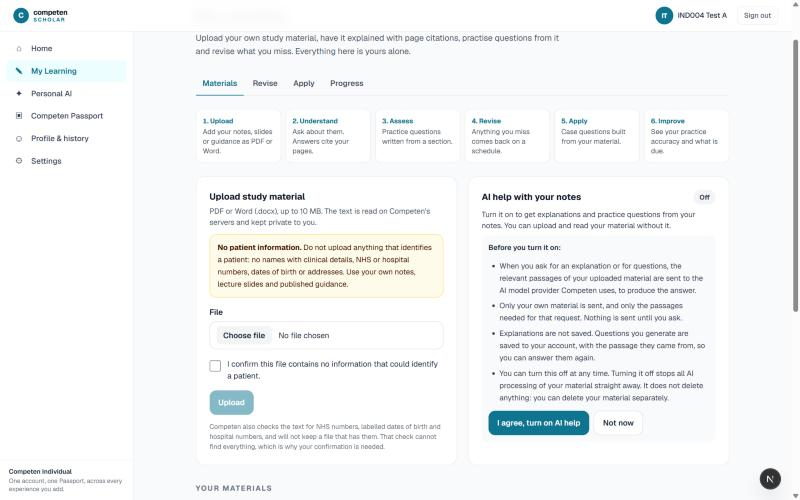
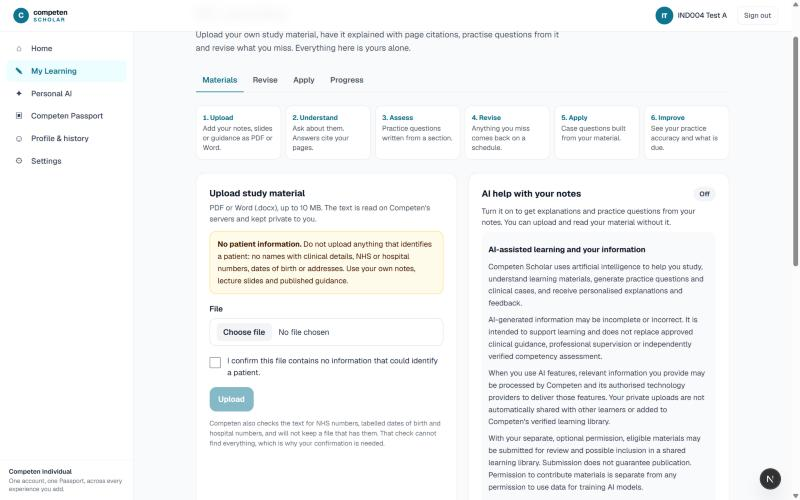
feat(scholar): owner-approved AI consent v2; final acceptance verification and release preparation
Consent (owner GO, 2026-10-23):
- CONSENT_NOTICE is the owner-approved wording, verbatim, as notice v2; the version is
  stored with each grant and confirmed on staging.
- The agreement control is a checkbox labelled with the Consent sentence, then its own
  'Turn on AI help' click. Still off by default with the notice in view, and withdrawal is
  one click.
- The Privacy Notice and Terms links come from the Individual legal configuration: version
  shown, URL only when configured, nothing invented.
- Contribution and training permissions stay separate by not existing. scholar-learning-harness
  S1-S4 pin it: no code shares, submits or publishes material or mentions training; the
  only consent feature is ai_processing_uploads, in code and schema; v2 is pinned; the
  agreement is gated. Planted P14 goes red.

Final verification (owner acceptance APPROVED):
- New SM-2 fixture tests: Good every time gives 1/6/15/38/95 days, long interval on review
  5; Easy/Okay set the ease; a miss restarts.
- vitest 587/587, scholar-learning 63/63, foundation 44/44.
- Staging acceptance 43/43, with notice v2 recorded.
- Screenshots: r02 (the v2 notice) and r14 (the mobile statement with legal links) added.

Build record section 10:
- verification items 1-6 with evidence;
- the consent consistency check (7 items, report only);
- residual risks: question-quality limits, the blind check being same-model rather than
[…]

diff --git a/src/app/individual/(app)/[experience]/(scholar)/study/_components/client.tsx b/src/app/individual/(app)/[experience]/(scholar)/study/_components/client.tsx
@@ -43,7 +43,12 @@ export function AiBadge() {
 
 // ── CONSENT ────────────────────────────────────────────────────────────────────────────────────────
 
-export function ConsentPanel({ granted, grantedAt, revokedAt }: { granted: boolean; grantedAt: string | null; revokedAt: string | null }) {
+/** A legal document the notice points to, from the Individual legal configuration (never an invented URL). */
+export type LegalLink = { title: string; version: string; url: string | null };
+
+export function ConsentPanel({ granted, grantedAt, revokedAt, legal }: {
+  granted: boolean; grantedAt: string | null; revokedAt: string | null; legal: LegalLink[];
+}) {
   const router = useRouter();
   const [busy, setBusy] = useState(false);
   const [error, setError] = useState("");
@@ -54,14 +59,28 @@ export function ConsentPanel({ granted, grantedAt, revokedAt }: { granted: boole
     if (!r.ok) { setError(r.json.error ?? "Your choice could not be saved."); return; }
     router.refresh();
   }
-  // Owner review P1.7: simpler, not weaker. The full notice is still on screen at the moment of agreeing,
-  // the agreement is still its own click, and turning it off is always one click away.
+  // The owner-approved notice (CONSENT_NOTICE, version stored with the grant). Still off by default, still
+  // its own click with the notice in view, and withdrawal is one click.
   const [reviewing, setReviewing] = useState(false);
+  const [agreed, setAgreed] = useState(false);
   const date = (iso: string) => new Date(iso).toLocaleDateString("en-GB", { day: "numeric", month: "short", year: "numeric" });
   const notice = (
-    <ul className="mt-3 list-disc space-y-1.5 pl-5 text-[13.5px] leading-relaxed text-gray-700">
-      {CONSENT_NOTICE.map(l => <li key={l}>{l}</li>)}
-    </ul>
+    <div className="mt-2 space-y-2 text-[13.5px] leading-relaxed text-gray-700">
+      <h3 className="text-[14px] font-bold text-gray-900">{CONSENT_NOTICE.heading}</h3>
+      {CONSENT_NOTICE.paragraphs.map(p => <p key={p}>{p}</p>)}
+      <p>{CONSENT_NOTICE.review}</p>
+      <ul className="space-y-1 text-[13px]">
+        {legal.length === 0 && <li className="text-gray-600">The Privacy Notice and Terms of Service are not published for this service yet.</li>}
+        {legal.map(d => (
+          <li key={`${d.title}-${d.version}`}>
+            {d.url
+              ? <a href={d.url} target="_blank" rel="noopener noreferrer" className={`font-semibold underline underline-offset-2 ${focusRing}`} style={{ color: accent }}>{d.title}</a>
+              : <span className="font-semibold text-gray-800">{d.title}</span>}
+            <span className="text-gray-500"> · version {d.version}{d.url ? "" : " (no published link yet)"}</span>
+          </li>
+        ))}
+      </ul>
+    </div>
   );
   return (
     <section aria-labelledby="consent-h" className="rounded-2xl border border-gray-200 bg-white p-5 sm:p-6">
@@ -74,11 +93,12 @@ export function ConsentPanel({ granted, grantedAt, revokedAt }: { granted: boole
       {granted ? (
         <>
           <p className="mt-2 text-[13.5px] text-gray-700">
-            Explanations and practice questions are on{grantedAt ? ` (since ${date(grantedAt)})` : ""}. Only the passages you ask about are sent to Competen&apos;s AI provider, and only when you ask.
+            Explanations and practice questions are on{grantedAt ? ` (since ${date(grantedAt)})` : ""}. Your private uploads are not shared with other learners.
           </p>
           <details className="mt-2 text-[13px] text-gray-600">
-            <summary className={`cursor-pointer font-semibold text-gray-700 ${focusRing}`}>What is sent, and what is kept?</summary>
+            <summary className={`cursor-pointer font-semibold text-gray-700 ${focusRing}`}>What you agreed to</summary>
             {notice}
+            <p className="mt-2 text-[13px] italic text-gray-700">“{CONSENT_NOTICE.statement}”</p>
           </details>
           <button type="button" className={`${ghost} mt-3`} disabled={busy} onClick={() => set(false)}>{busy ? "Saving…" : "Turn off"}</button>
         </>
@@ -91,11 +111,14 @@ export function ConsentPanel({ granted, grantedAt, revokedAt }: { granted: boole
             <button type="button" className={`${btn} mt-3`} style={{ background: accent }} onClick={() => setReviewing(true)}>Review and turn on</button>
           ) : (
             <div className="mt-2 rounded-xl bg-gray-50 p-3">
-              <p className="text-[13px] font-semibold text-gray-800">Before you turn it on:</p>
               {notice}
+              <label className="mt-3 flex items-start gap-3 text-[13.5px] font-semibold text-gray-900">
+                <input type="checkbox" checked={agreed} onChange={e => setAgreed(e.target.checked)} className="mt-0.5 h-5 w-5 shrink-0" />
+                <span>{CONSENT_NOTICE.statement}</span>
+              </label>
               <div className="mt-3 flex flex-wrap gap-2">
-                <button type="button" className={btn} style={{ background: accent }} disabled={busy} onClick={() => set(true)}>{busy ? "Saving…" : "I agree, turn on AI help"}</button>
-                <button type="button" className={ghost} disabled={busy} onClick={() => setReviewing(false)}>Not now</button>
+                <button type="button" className={btn} style={{ background: accent }} disabled={busy || !agreed} onClick={() => set(true)}>{busy ? "Saving…" : "Turn on AI help"}</button>
+                <button type="button" className={ghost} disabled={busy} onClick={() => { setReviewing(false); setAgreed(false); }}>Not now</button>
               </div>
             </div>
           )}

diff --git a/scripts/scholar-learning-harness.ts b/scripts/scholar-learning-harness.ts
@@ -28,7 +28,7 @@
  */
 import { readFileSync, readdirSync, existsSync, statSync } from "node:fs";
 import { join } from "node:path";
-import { ALLOWED_MIME, MAX_UPLOAD_BYTES, BUCKET, AI_LABEL, SELF_DIRECTED_LABEL } from "../src/lib/individual/scholar/config";
+import { ALLOWED_MIME, MAX_UPLOAD_BYTES, BUCKET, AI_LABEL, SELF_DIRECTED_LABEL, CONSENT_FEATURE, CONSENT_NOTICE, CONSENT_NOTICE_VERSION } from "../src/lib/individual/scholar/config";
 import { EXPERIENCES } from "../src/lib/individual/experiences";
 
 let pass = 0; const failures: string[] = [];
@@ -167,6 +167,16 @@ const sourceNoticeCount = (src: Src) => [...(src.get(CLIENT) ?? "").matchAll(/<S
 const masteryWords = (src: Src) => [...src].filter(([f]) => f.startsWith(PAGES) || f === CLIENT)
   .filter(([, s]) => /master(y|ed)/i.test(s.replace(/["']mastered["']/g, ""))).map(([f]) => f);
 
+/**
+ * Owner consent GO (2026-10-23): contribution and AI-training permissions are SEPARATE and neither exists.
+ * No Scholar code may share, submit, contribute or publish a person's material, or ask for or imply a training
+ * permission. The notice text itself (config.ts) is the one place these words may appear.
+ */
+// Sharing constructs, not form submits (type="submit") or the word "published" in the legal-links UI.
+const SHARING = /contribut|shared[_ -]?library|learning[_ -]?library|submit\w*(library|review|share)|publish\w*(material|library)|share\w*material|\btrain(ing)?\b|fine[_ -]?tun/i;
+const sharingPaths = (src: Src) => [...src].filter(([f]) => f !== `${LIB}/config.ts`)
+  .filter(([, s]) => SHARING.test(s)).map(([f]) => f);
+
 /** E: labels, and no answer key in the browser before answering. */
 const answerKeyLeaks = (src: Src) => {
   const s = src.get(SCHOLAR_PAGE) ?? "";
@@ -265,6 +275,20 @@ function main() {
   ok("R3. P0.3: no Scholar screen calls practice accuracy 'mastery'", masteryWords(REAL).length === 0, masteryWords(REAL).join(", "));
   ok("R4. P0.4: the AI prompts carry only passages and the question -- no name, email or other profile data",
     !/profile|fullName|email|full_name/.test(REAL.get(GEN) ?? "x") && !/profile|fullName|email|full_name/.test(REAL.get(`${LIB}/question-quality.ts`) ?? "x"));
+  // ── S. OWNER CONSENT GO (2026-10-23) ───────────────────────────────────────────────────────────
+  ok("S1. no Scholar code shares, submits, contributes or publishes a person's material, or mentions training (outside the notice text)",
+    sharingPaths(REAL).length === 0, sharingPaths(REAL).join(", "));
+  ok("S2. the only consent Scholar asks for is AI processing: one feature value in code and in the schema, so no training permission exists",
+    CONSENT_FEATURE === "ai_processing_uploads" && (!MIG_REAL || /check \(feature in \('ai_processing_uploads'\)\)/.test(MIG_REAL)));
+  ok("S3. the consent notice is the owner-approved v2, with the separation sentences, the consent statement, and its version recorded with each grant",
+    CONSENT_NOTICE_VERSION === "scholar-ai-uploads-notice-v2"
+    && CONSENT_NOTICE.paragraphs.some(p => p.includes("Permission to contribute materials is separate from any permission to use data for training AI models."))
+    && CONSENT_NOTICE.paragraphs.some(p => p.includes("Your private uploads are not automatically shared with other learners"))
+    && CONSENT_NOTICE.statement.startsWith("I understand how AI-assisted learning works")
+    && /notice_version: CONSENT_NOTICE_VERSION/.test(REAL.get(STORE) ?? ""));
+  ok("S4. the agreement is its own click on the stated consent, and withdrawal is one click",
+    /disabled=\{busy \|\| !agreed\} onClick=\{\(\) => set\(true\)\}/.test(REAL.get(CLIENT) ?? "") && /\{CONSENT_NOTICE\.statement\}/.test(REAL.get(CLIENT) ?? "")
+    && /onClick=\{\(\) => set\(false\)\}>\{busy \? "Saving…" : "Turn off"\}/.test(REAL.get(CLIENT) ?? ""));
   ok("R5. P0.5: a personal practice case is labelled as such on its card",
     /q\.kind === "case" && \(/.test(REAL.get(CLIENT) ?? "") && /\{PERSONAL_CASE_LABEL\}/.test(REAL.get(CLIENT) ?? ""));
 
@@ -335,6 +359,8 @@ function main() {
     !qualityWired(plant(GEN, "const problems = qualityProblems(draft, passage.content);", "const problems: { reason: string; detail?: string }[] = [];")));
   ok("P12. ⚠ R1 goes red when the blind verification is skipped",
     !qualityWired(plant(GEN, "const outcome = applyVerification(check.kept, v.text);", "const outcome = { kept: check.kept, rejected: [] };")));
+  ok("P14. ⚠ S1 goes red when a route starts submitting material to a shared library",
+    sharingPaths(plant(STORE, "export function isUuid", "export async function submitToSharedLibrary() { return null; }\nexport function isUuid")).length > 0);
   ok("P13. ⚠ R3 goes red when a screen says mastery again",
     masteryWords(plant(`${PAGES}/progress/page.tsx`, "% practice accuracy`", "% mastery`")).length > 0);
 

diff --git a/src/lib/individual/scholar/config.ts b/src/lib/individual/scholar/config.ts
@@ -60,13 +60,24 @@ export const SELF_DIRECTED_LABEL = "Self-directed study. Nothing here is verifie
 // notice, not legal text: the Terms and Privacy Notice the person accepted on entry (owner ruling D2)
 // remain the legal documents, and this notice must be reviewed alongside them (COMPETEN-LEGAL-001).
 export const CONSENT_FEATURE = "ai_processing_uploads";
-export const CONSENT_NOTICE_VERSION = "scholar-ai-uploads-notice-v1";
-export const CONSENT_NOTICE: readonly string[] = [
-  "When you ask for an explanation or for questions, the relevant passages of your uploaded material are sent to the AI model provider Competen uses, to produce the answer.",
-  "Only your own material is sent, and only the passages needed for that request. Nothing is sent until you ask.",
-  "Explanations are not saved. Questions you generate are saved to your account, with the passage they came from, so you can answer them again.",
-  "You can turn this off at any time. Turning it off stops all AI processing of your material straight away. It does not delete anything: you can delete your material separately.",
-];
+export const CONSENT_NOTICE_VERSION = "scholar-ai-uploads-notice-v2";
+/**
+ * The owner-approved wording (owner GO, 2026-10-23), VERBATIM, subject to legal review (COMPETEN-LEGAL-001).
+ * Do not edit a word without a new approval and a new version: the version is stored with every grant.
+ * scripts/scholar-learning-harness.ts pins the separation sentences.
+ */
+export const CONSENT_NOTICE = {
+  heading: "AI-assisted learning and your information",
+  paragraphs: [
+    "Competen Scholar uses artificial intelligence to help you study, understand learning materials, generate practice questions and clinical cases, and receive personalised explanations and feedback.",
+    "AI-generated information may be incomplete or incorrect. It is intended to support learning and does not replace approved clinical guidance, professional supervision or independently verified competency assessment.",
+    "When you use AI features, relevant information you provide may be processed by Competen and its authorised technology providers to deliver those features. Your private uploads are not automatically shared with other learners or added to Competen's verified learning library.",
+    "With your separate, optional permission, eligible materials may be submitted for review and possible inclusion in a shared learning library. Submission does not guarantee publication. Permission to contribute materials is separate from any permission to use data for training AI models.",
+    "Please do not upload identifiable patient information or material you do not have permission to use.",
+  ],
+  review: "You can review the applicable Privacy Notice and Terms of Service before continuing.",
+  statement: "I understand how AI-assisted learning works and agree to the processing necessary to provide the AI features, as described in the Privacy Notice.",
+} as const;
 
 export const PII_WARNING =
   "Do not upload anything that identifies a patient: no names with clinical details, NHS or hospital numbers, dates of birth or addresses. Use your own notes, lecture slides and published guidance.";

diff --git a/src/app/individual/(app)/[experience]/(scholar)/study/page.tsx b/src/app/individual/(app)/[experience]/(scholar)/study/page.tsx
@@ -6,7 +6,27 @@ import { experienceHref } from "@/lib/individual/experiences";
 import { countDue, listMaterials, readConsent } from "@/lib/individual/scholar/store";
 import { PageHeader, StatePanel, Unreadable, focusRing } from "../../../../_components/chrome";
 import StudyNav from "./_components/StudyNav";
-import { ConsentPanel, EraseAll, ExplainPanel, UploadPanel } from "./_components/client";
+import { ConsentPanel, EraseAll, ExplainPanel, UploadPanel, type LegalLink } from "./_components/client";
+import { FOUNDATION_ENTITY, entityLegal, type EntityLegal } from "@/lib/individual/legal";
+
+/**
+ * The Privacy Notice and Terms the consent notice points to: the shared foundation's and the Scholar
+ * operator's, exactly as the Individual legal configuration publishes them (version, and a URL only if one
+ * is configured). Nothing is invented, and an unpublished document is simply absent.
+ */
+function consentLegalLinks(): LegalLink[] {
+  const docs = (l: EntityLegal): LegalLink[] => {
+    const raw = l.registeredName ?? l.label;
+    const name = raw.charAt(0).toUpperCase() + raw.slice(1);
+    return [
+      ...(l.privacy ? [{ title: `${name} Privacy Notice`, version: l.privacy.version, url: l.privacy.url }] : []),
+      ...(l.terms ? [{ title: `${name} Terms of Use`, version: l.terms.version, url: l.terms.url }] : []),
+    ];
+  };
+  const foundation = entityLegal(FOUNDATION_ENTITY);
+  const operator = entityLegal(SCHOLAR.operatingEntity);
+  return operator.entity === foundation.entity ? docs(foundation) : [...docs(operator), ...docs(foundation)];
+}
 
 // Request-time only: it reads the release gate and the session, and must never be prerendered at build
 // (a build-time render would fail without the service key, or freeze the gate into static HTML).
@@ -72,7 +92,7 @@ export default async function MyLearning({ params }: { params: Promise<{ experie
       <div className="grid gap-5 lg:grid-cols-2">
         <UploadPanel />
         {consent.ok
-          ? <ConsentPanel granted={consent.data.granted} grantedAt={consent.data.grantedAt} revokedAt={consent.data.revokedAt} />
+          ? <ConsentPanel granted={consent.data.granted} grantedAt={consent.data.grantedAt} revokedAt={consent.data.revokedAt} legal={consentLegalLinks()} />
           : <Unreadable what="AI consent setting" />}
       </div>
 

diff --git a/src/lib/individual/scholar/learning.test.ts b/src/lib/individual/scholar/learning.test.ts
@@ -113,6 +113,27 @@ describe("question checks", () => {
   });
 });
 
+describe("spaced revision schedule, against a known fixture (owner acceptance item 4)", () => {
+  it("a card graded Good every time comes back after 1, 6, 15, 38, 95 days, and reaches long intervals on the fifth review", () => {
+    let st = { ease: 2.5, interval: 0, reps: 0 };
+    const intervals: number[] = [];
+    for (let i = 0; i < 5; i++) { const n = sm2(st, 4); intervals.push(n.interval); st = { ease: n.ease, interval: n.interval, reps: n.reps }; }
+    expect(intervals).toEqual([1, 6, 15, 38, 95]);
+    // store.reviewCard's long-interval rule (the engine's own): reps >= 5 and interval >= 60.
+    expect(st.reps >= 5 && st.interval >= 60).toBe(true);
+  });
+
+  it("the grade sets the ease for later intervals (Easy raises it, Okay lowers it), and a miss starts the schedule again", () => {
+    // SM-2 applies the CURRENT ease to this interval, so both give 15 days now; the next ones diverge.
+    const easy = sm2({ ease: 2.5, interval: 6, reps: 2 }, 5), okay = sm2({ ease: 2.5, interval: 6, reps: 2 }, 3);
+    expect([easy.interval, okay.interval]).toEqual([15, 15]);
+    expect(easy.ease).toBe(2.6);
+    expect(okay.ease).toBe(2.36);
+    expect(sm2({ ease: easy.ease, interval: 15, reps: 3 }, 4).interval).toBeGreaterThan(sm2({ ease: okay.ease, interval: 15, reps: 3 }, 4).interval);
+    expect(sm2({ ease: 2.5, interval: 38, reps: 4 }, 2)).toMatchObject({ reps: 0, interval: 1 });
+  });
+});
+
 describe("revision uses the estate's SM-2, unchanged", () => {
   it("a miss (quality 1) restarts the schedule, a good recall extends it", () => {
     expect(sm2({ ease: 2.5, interval: 6, reps: 2 }, 1)).toMatchObject({ reps: 0, interval: 1 });

diff --git a/docs/COMPETEN-IND-004-scholar-learning-mvp.md b/docs/COMPETEN-IND-004-scholar-learning-mvp.md
@@ -6,6 +6,7 @@
 | **Status** | Built on branch `ind-004/scholar-mvp`, cut from `ind-003/individual-foundation` at `d6252ad6`. **Not merged, not deployed.** |
 | **Authority** | Owner GO for COMPETEN-IND-004. Builds on ADR-016 (owner rulings D1–D10), COMPETEN-IND-002 §3.2–3.3 and COMPETEN-IND-003. |
 | **Migration** | `372-individual-scholar-learning.sql`. House rules ALL CLEAR. **Applied and verified on STAGING only (2026-10-23)**, under the owner's continuation GO. Committed to this branch (`08ea2a31`), as the CLAUDE.md migration-governance amendment now allows for a staging-verified migration (`main` `5a9a07cc`). Nothing merges to `main` without a GO. **Production: not applied, and a separate GO is required.** |
+| **Owner acceptance** | **APPROVED** as the MVP design baseline (2026-10-23). Final verification, consent v2, residual risks and release action are in §10. |
 | **Owner review** | Conditional acceptance (2026-10-23); P0.1–P0.5 done, P1.6–P1.8 done, P1.9–P1.10 recommended. See §9. |
 | **Staging** | 372 applied twice, idempotent. `scholar-acceptance-harness` 40/40. End-to-end walk-through at 1440 and 390 px. Three defects found and fixed. See §6. |
 
@@ -231,6 +232,61 @@ The owner accepted the Scholar journey as the MVP foundation, subject to one foc
 4. Turn `individual_app` on, and pilot-grant the cohort through the HQ grant right (D8/D9).
 
 Until then, Scholar stays dark in production behind the default-OFF gate.
+
+## 10. Owner visual acceptance (APPROVED, 2026-10-23): final verification and release preparation
+
+The owner approved the revised interface and journey as the MVP design baseline. This section records the final verification, the AI-consent change the owner approved the same day, the residual risks and the release action. No schema change; 372 is unchanged (sha256 `17a43464…`).
+
+### Final verification
+
+| # | Owner item | Evidence | Result |
+|---|---|---|---|
+| 1 | Question validation covers stems, correct answers, distractors, ambiguity, clinical terminology and source support | `question-quality.ts`:<br>• stem: a question, no unmarked negative;<br>• key: in the quoted source sentence;<br>• distractors and terminology: every option from the notes' terms, no catch-all or overlap.<br>The blind check covers ambiguity, exactly-one-supported, and no outside facts. Unit tests, harness R1 + P11/P12. **Live on staging (A1–A3):** green, with 3 acceptance runs today. The v3 pipeline re-measured at 11 kept across 6 sets, at least 1 each. | **Pass** |
+| 2 | AI consent, withdrawal and material-deletion boundaries | Acceptance C1–C6: off by default; grant records the notice version (now **v2**, confirmed in the database); revoke records when; the preflight refuses with **403** after revoke. E1–E3: one material and everything, objects included, an unprocessed upload too; the consent record kept. I1–I8: isolation. Walk-through: the statement must be ticked before "Turn on AI help" enables, and "Turn off" is one click. | **Pass** |
+| 3 | Source-grounded explanations, clear separation from clinically reviewed content | A1 live: shown only after the grounding check, cited `[S1]` to a page, with the AI label and the source notice (screenshot r13). The Apply page separates "Your practice scenarios" from "Clinically reviewed cases" (not served). Nothing reads `clinical_cases` (harness B2, R5). | **Pass**, with residual risk 4 |
+| 4 | Practice accuracy, spaced revision, progress calculations | **Known fixtures (unit tests, all green):**<br>• Accuracy: the latest answer per question counts (wrong then right = right). Material with 2 answered, 1 right on the latest = **50%**.<br>• Not measured: no answers gives `null`, shown as "Not measured yet", never 0%. A week with no answers has no bar.<br>• Weekly trend: 3 answers in the week of 19 Oct, 1 right, gives **33%**. Weeks start on Monday, and the window is 8 weeks ending with the current one.<br>• SM-2 (the estate's `sm2()`, imported): Good every time gives **1 → 6 → 15 → 38 → 95 days**, reaching long intervals on review 5 (reps ≥ 5 and interval ≥ 60). Easy/Okay set the ease (2.6 / 2.36) for later intervals. A miss restarts at 1 day.<br>• Cards due: a card due today counts; a future card does not.<br>Staging Q2–Q7 confirm the same against the real database. | **Pass** |
+| 5 | Desktop and mobile usability and navigation | 15 owner-review screenshots, all live (1440 and 390). No horizontal overflow at 390 (measured). Study tabs pinned on mobile, five-tab bottom bar, two-column material page with a sticky Ask panel on desktop. Revise keeps its session summary after the due-count refresh (defect found and fixed). | **Pass** |
+| 6 | Personal educational activity kept distinct from verified competency | "Practice accuracy … not a measure of competence or of clinical knowledge". The self-directed label on Progress. Nothing is written to the Passport or any estate table (harness B1, acceptance M1). "Mastery" is refused on screen (R3). Answers are "marked against your notes, not against clinical guidelines". | **Pass** |
+
+Local checks: `tsc` clean; `vitest` **587/587**; `scholar-learning-harness` **63/63** (S1–S4 consent and separation, planted P14 goes red); `individual-foundation` 44/44; `auth-boundary`, `plane-boundary`, `access-doors` green. Staging: `scholar-acceptance-harness` **43/43**. The flag was restored to no row each time and confirmed, with IND-007 told before and after.
+
+### AI consent v2 (owner GO, 2026-10-23)
+
+- **Wording:** the owner-approved wording, verbatim, as `CONSENT_NOTICE` v2 (`scholar-ai-uploads-notice-v2`, stored with each grant).
+- **Agreement:** the agreement control is a checkbox labelled with the Consent sentence, followed by its own "Turn on AI help" click. It stays off by default, the notice is in view, and withdrawal is one click.
+- **Legal links:** the Privacy Notice and Terms links come from the Individual legal configuration: version shown, URL only if configured, and nothing invented.
+- **Separation:** contribution and training permissions are kept separate by not existing. No code path shares, submits or publishes a person's material, and no training permission is requested or implied: the only consent feature, in code and schema, is `ai_processing_uploads`. Harness S1–S4 pin this, and planted P14 goes red.
+
+**Consistency check: where the approved wording and the implementation differ (report only, no code changed):**
+1. *"With your separate, optional permission, eligible materials may be submitted for review…"* No such permission or mechanism exists; contribution is out of scope. The sentence describes a capability the person cannot use today. Legal and product should decide whether to keep it before the pilot, or say it is not yet available.
+2. *"…or material you do not have permission to use."* The upload attestation covers patient information only, not copyright or permission to use. A one-line attestation change would align it; that needs a decision on whether the attestation timestamp should then cover both.
+3. *"You can review the applicable Privacy Notice and Terms of Service…"* and *"…as described in the Privacy Notice."* Both depend on LEGAL-001. No Individual Privacy Notice or Terms is published; on staging the links show test versions with "no published link yet". The consent would refer to a document that does not exist until legal publishes it.
+4. *"Terms of Service"* vs the configured and displayed name *"Terms of Use"* (legal.ts, the terms gate). The names should be aligned in one place.
+5. *"processed by Competen and its authorised technology providers"* The provider is Anthropic, via `generate()`. Naming the processor and its terms, including that API inputs are not used for training, belongs in the Privacy Notice, which is a legal dependency.
+6. *"receive personalised explanations and feedback"* Explanations are AI-generated. Answer **feedback** is the stored question's own rationale and source, with no AI call at marking time. The sentence is accurate for explanations and loosely so for feedback.
+7. The v2 wording drops the v1 operational details: only the passages you ask about are sent; explanations are not saved; questions are saved with their source; turning AI off deletes nothing. They are still true. Legal should decide whether the Privacy Notice carries them.
+
+### Residual risks (accepted for the MVP, recorded)
+
+1. **Question quality limits.**
+   - Distractors limited to the notes' terms are safe but sometimes obviously wrong, which lowers discrimination.
+   - A harmless synonym is refused (conservative).
+   - In explanations, explanatory paraphrase is not term-checked (live example: "problems with blood supply to the kidneys").
+2. **The blind check is the same model family, not clinical review.** It catches keying errors and ambiguity. It does not validate clinical truth, and the notes themselves may be wrong. The AI label and source notice say so on every output.
+3. **The consent-notice wording is pending legal review** (items 1–7 above), and the Privacy Notice and Terms it relies on are unpublished (LEGAL-001).
+4. **Storage files are outside the planned database backups.** Uploaded originals live in the `individual-scholar-materials` Storage bucket. A database backup or PITR (COMPETEN-OPS-001) does not cover Storage objects, so a restore could bring back material rows whose original file is gone. The extracted text is in the database, so study still works. Download-original would 404, and erasure must stay object-first, as it is.
+5. Unchanged from §9: production needs 370 + 372 under a separate GO and the freeze's recovery mechanism; `individual_app` stays OFF in production.
+
+### Recommended release action
+
+**Merge PR #9 to `main` when the owner gives the GO.** The code is dark behind the default-OFF `individual_app` gate, and 372 is staging-verified and eligible under the CLAUDE.md amendment. Merging records it in release history and activates nothing.
+
+Then, as **separate owner GOs**, in order:
+1. Legal: resolve consistency items 1–5 and publish the Individual Privacy Notice and Terms (LEGAL-001).
+2. Production: apply 370 + 372 once the freeze's recovery mechanism exists. Decide whether Storage needs its own backup first (risk 4).
+3. Pilot: turn `individual_app` on in production and pilot-grant the closed cohort through the HQ right (D8/D9).
+
+No production migration, merge, deployment or pilot activation has been done.
 
 ## 8. Next
 
